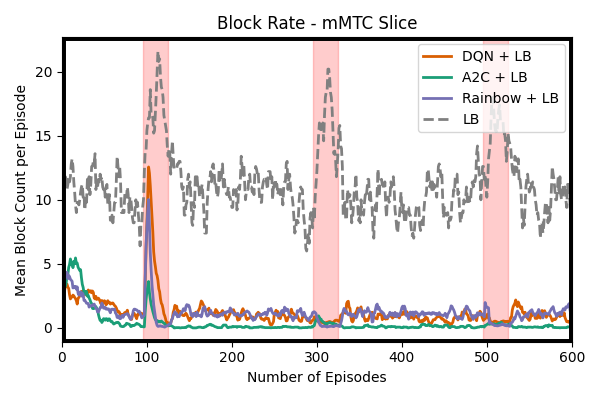
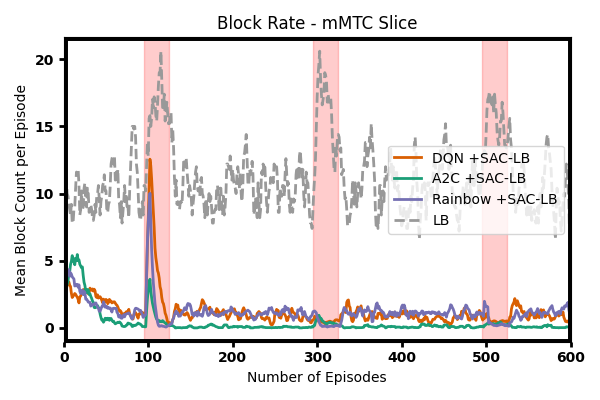
Improved plots

diff --git a/Compare.py b/Compare.py
@@ -383,10 +383,10 @@ def plot_results():
         rdqn_ratio = smooth(np.nan_to_num(mean_rdqn_min / mean_rdqn_max, nan=0.0, posinf=0.0, neginf=0.0), window=5)
         baseline_ratio = smooth(np.nan_to_num(baseline_min / baseline_max, nan=0.0, posinf=0.0, neginf=0.0), window=5)
 
-    plt.plot(dqn_ratio, label='DQN + LB', color='#d95f02', linewidth=2, linestyle='-')
-    plt.plot(a2c_ratio, label='A2C + LB', color='#1b9e77', linewidth=2, linestyle='-')
-    plt.plot(rdqn_ratio, label='Rainbow + LB', color='#7570b3', linewidth=2, linestyle='-')
-    plt.plot(baseline_ratio, label='LB', color='gray', linewidth=2, linestyle='--')
+    plt.plot(dqn_ratio, label='DQN +SAC-LB', color='#d95f02', linewidth=2, linestyle='-')
+    plt.plot(a2c_ratio, label='A2C +SAC-LB', color='#1b9e77', linewidth=2, linestyle='-')
+    plt.plot(rdqn_ratio, label='Rainbow +SAC-LB', color='#7570b3', linewidth=2, linestyle='-')
+    plt.plot(baseline_ratio, label='LB', color='#999999', linewidth=2, linestyle='--')
 
     plt.xlim(0, 600)
     plt.axvline(0, color='black', linewidth=5)
@@ -397,19 +397,25 @@ def plot_results():
     plt.title("Network Slicing Load Balance Ratio (min/max)")
     plt.xlabel("Number of Episodes")
     plt.ylabel("Min/Max Utilization Ratio")
+    plt.tick_params(axis='both', labelsize=10, width=2)
+    for label in plt.gca().get_xticklabels():
+        label.set_fontweight('bold')
+    for label in plt.gca().get_yticklabels():
+        label.set_fontweight('bold')
     # --- Mark disruption windows with shaded regions ---
     for start, duration in [(95, 30), (295, 30), (495, 30)]:
         plt.axvspan(start, start + duration, color='red', alpha=0.2, label=None)
-    plt.legend()
+    plt.legend(loc='center right')
     plt.tight_layout()
     plt.savefig('Load_Balance_Metric.png')
     plt.close()
 
 def plot_std_metric():
     plt.figure(figsize=(6, 4))
-    plt.plot(smooth(mean_dqn_std, window=5), label='DQN + LB', color='#d95f02', linewidth=2, linestyle='-')
-    plt.plot(smooth(mean_a2c_std, window=5), label='A2C + LB', color='#1b9e77', linewidth=2, linestyle='-')
-    plt.plot(smooth(mean_rdqn_std, window=5), label='Rainbow + LB', color='#7570b3', linewidth=2, linestyle='-')
+    plt.plot(smooth(mean_dqn_std, window=5), label='DQN +SAC-LB', color='#d95f02', linewidth=2, linestyle='-')
+    plt.plot(smooth(mean_a2c_std, window=5), label='A2C +SAC-LB', color='#1b9e77', linewidth=2, linestyle='-')
+    plt.plot(smooth(mean_rdqn_std, window=5), label='Rainbow +SAC-LB', color='#7570b3', linewidth=2, linestyle='-')
+    plt.plot(smooth(baseline_std, window=5), label='LB', color='#999999', linewidth=2, linestyle='--')
     plt.title("Std Dev of Slice Utilization")
     plt.xlabel("Number of Episodes")
     plt.ylabel("Std Dev (Normalized Usage)")
@@ -419,19 +425,24 @@ def plot_std_metric():
     ymin, ymax = plt.ylim()
     plt.axhline(ymin, color='black', linewidth=5)
     plt.axhline(ymax, color='black', linewidth=5)
+    plt.tick_params(axis='both', labelsize=10, width=2)
+    for label in plt.gca().get_xticklabels():
+        label.set_fontweight('bold')
+    for label in plt.gca().get_yticklabels():
+        label.set_fontweight('bold')
     for start, duration in [(95, 30), (295, 30), (495, 30)]:
         plt.axvspan(start, start + duration, color='red', alpha=0.2, label=None)
-    plt.legend()
+    plt.legend(loc='center right')
     plt.tight_layout()
     plt.savefig('Std_Utilization.png')
     plt.close()
 
 def plot_block_rate_urllc():
     plt.figure(figsize=(6, 4))
-    plt.plot(smooth(mean_dqn_urllc_blocks, window=5), label='DQN + LB', color='#d95f02', linestyle='-', linewidth=2)
-    plt.plot(smooth(mean_a2c_urllc_blocks, window=5), label='A2C + LB', color='#1b9e77', linestyle='-', linewidth=2)
-    plt.plot(smooth(mean_rdqn_urllc_blocks, window=5), label='Rainbow + LB', color='#7570b3', linestyle='-', linewidth=2)
-    plt.plot(smooth(baseline_urllc_blocks, window=5), label='LB', color='gray', linewidth=2, linestyle='--')
+    plt.plot(smooth(mean_dqn_urllc_blocks, window=5), label='DQN +SAC-LB', color='#d95f02', linestyle='-', linewidth=2)
+    plt.plot(smooth(mean_a2c_urllc_blocks, window=5), label='A2C +SAC-LB', color='#1b9e77', linestyle='-', linewidth=2)
+    plt.plot(smooth(mean_rdqn_urllc_blocks, window=5), label='Rainbow +SAC-LB', color='#7570b3', linestyle='-', linewidth=2)
+    plt.plot(smooth(baseline_urllc_blocks, window=5), label='LB', color='#999999', linewidth=2, linestyle='--')
     plt.title("Block Rate - URLLC Slice")
     plt.xlabel("Number of Episodes")
     plt.ylabel("Mean Block Count per Episode")
@@ -441,20 +452,25 @@ def plot_block_rate_urllc():
     ymin, ymax = plt.ylim()
     plt.axhline(ymin, color='black', linewidth=5)
     plt.axhline(ymax, color='black', linewidth=5)
+    plt.tick_params(axis='both', labelsize=10, width=2)
+    for label in plt.gca().get_xticklabels():
+        label.set_fontweight('bold')
+    for label in plt.gca().get_yticklabels():
+        label.set_fontweight('bold')
     # --- Mark disruption windows with shaded regions ---
     for start, duration in [(95, 30), (295, 30), (495, 30)]:
         plt.axvspan(start, start + duration, color='red', alpha=0.2, label=None)
-    plt.legend()
+    plt.legend(loc='center right')
     plt.tight_layout()
     plt.savefig('Block_Rate_URRLC.png')
     plt.close()
 
 def plot_block_rate_embb():
     plt.figure(figsize=(6, 4))
-    plt.plot(smooth(mean_dqn_embb_blocks, window=5), label='DQN + LB', color='#d95f02', linestyle='-', linewidth=2)
-    plt.plot(smooth(mean_a2c_embb_blocks, window=5), label='A2C + LB', color='#1b9e77', linestyle='-', linewidth=2)
-    plt.plot(smooth(mean_rdqn_embb_blocks, window=5), label='Rainbow + LB', color='#7570b3', linestyle='-', linewidth=2)
-    plt.plot(smooth(baseline_embb_blocks, window=5), label='LB', color='gray', linewidth=2, linestyle='--')
+    plt.plot(smooth(mean_dqn_embb_blocks, window=5), label='DQN +SAC-LB', color='#d95f02', linestyle='-', linewidth=2)
+    plt.plot(smooth(mean_a2c_embb_blocks, window=5), label='A2C +SAC-LB', color='#1b9e77', linestyle='-', linewidth=2)
+    plt.plot(smooth(mean_rdqn_embb_blocks, window=5), label='Rainbow +SAC-LB', color='#7570b3', linestyle='-', linewidth=2)
+    plt.plot(smooth(baseline_embb_blocks, window=5), label='LB', color='#999999', linewidth=2, linestyle='--')
     plt.title("Block Rate - eMBB Slice")
     plt.xlabel("Number of Episodes")
     plt.ylabel("Mean Block Count per Episode")
@@ -464,20 +480,25 @@ def plot_block_rate_embb():
     ymin, ymax = plt.ylim()
     plt.axhline(ymin, color='black', linewidth=5)
     plt.axhline(ymax, color='black', linewidth=5)
+    plt.tick_params(axis='both', labelsize=10, width=2)
+    for label in plt.gca().get_xticklabels():
+        label.set_fontweight('bold')
+    for label in plt.gca().get_yticklabels():
+        label.set_fontweight('bold')
     # --- Mark disruption windows with shaded regions ---
     for start, duration in [(95, 30), (295, 30), (495, 30)]:
         plt.axvspan(start, start + duration, color='red', alpha=0.2, label=None)
-    plt.legend(loc='upper right')
+    plt.legend(loc='center right')
     plt.tight_layout()
     plt.savefig('Block_Rate_eMBB.png')
     plt.close()
 
 def plot_block_rate_mmtc():
     plt.figure(figsize=(6, 4))
-    plt.plot(smooth(mean_dqn_mmtc_blocks, window=5), label='DQN + LB', color='#d95f02', linestyle='-', linewidth=2)
-    plt.plot(smooth(mean_a2c_mmtc_blocks, window=5), label='A2C + LB', color='#1b9e77', linestyle='-', linewidth=2)
-    plt.plot(smooth(mean_rdqn_mmtc_blocks, window=5), label='Rainbow + LB', color='#7570b3', linestyle='-', linewidth=2)
-    plt.plot(smooth(baseline_mmtc_blocks, window=5), label='LB', color='gray', linewidth=2, linestyle='--')
+    plt.plot(smooth(mean_dqn_mmtc_blocks, window=5), label='DQN +SAC-LB', color='#d95f02', linestyle='-', linewidth=2)
+    plt.plot(smooth(mean_a2c_mmtc_blocks, window=5), label='A2C +SAC-LB', color='#1b9e77', linestyle='-', linewidth=2)
+    plt.plot(smooth(mean_rdqn_mmtc_blocks, window=5), label='Rainbow +SAC-LB', color='#7570b3', linestyle='-', linewidth=2)
+    plt.plot(smooth(baseline_mmtc_blocks, window=5), label='LB', color='#999999', linewidth=2, linestyle='--')
     plt.title("Block Rate - mMTC Slice")
     plt.xlabel("Number of Episodes")
     plt.ylabel("Mean Block Count per Episode")
@@ -487,20 +508,25 @@ def plot_block_rate_mmtc():
     ymin, ymax = plt.ylim()
     plt.axhline(ymin, color='black', linewidth=5)
     plt.axhline(ymax, color='black', linewidth=5)
+    plt.tick_params(axis='both', labelsize=10, width=2)
+    for label in plt.gca().get_xticklabels():
+        label.set_fontweight('bold')
+    for label in plt.gca().get_yticklabels():
+        label.set_fontweight('bold')
     # --- Mark disruption windows with shaded regions ---
     for start, duration in [(95, 30), (295, 30), (495, 30)]:
         plt.axvspan(start, start + duration, color='red', alpha=0.2, label=None)
-    plt.legend()
+    plt.legend(loc='center right')
     plt.tight_layout()
     plt.savefig('Block_Rate_mMTC.png')
     plt.close()
 
 def plot_sla_satisfaction_urllc():
     plt.figure(figsize=(6, 4))
-    plt.plot(smooth(mean_dqn_urllc_sla, window=5), label='DQN + LB', color='#d95f02', linewidth=2, linestyle='-')
-    plt.plot(smooth(mean_a2c_urllc_sla, window=5), label='A2C + LB', color='#1b9e77', linewidth=2, linestyle='-')
-    plt.plot(smooth(mean_rdqn_urllc_sla, window=5), label='Rainbow + LB', color='#7570b3', linewidth=2, linestyle='-')
-    plt.plot(smooth(baseline_urllc_sla, window=5), label='LB', color='gray', linewidth=2, linestyle='--')
+    plt.plot(smooth(mean_dqn_urllc_sla, window=5), label='DQN +SAC-LB', color='#d95f02', linewidth=2, linestyle='-')
+    plt.plot(smooth(mean_a2c_urllc_sla, window=5), label='A2C +SAC-LB', color='#1b9e77', linewidth=2, linestyle='-')
+    plt.plot(smooth(mean_rdqn_urllc_sla, window=5), label='Rainbow +SAC-LB', color='#7570b3', linewidth=2, linestyle='-')
+    plt.plot(smooth(baseline_urllc_sla, window=5), label='LB', color='#999999', linewidth=2, linestyle='--')
     plt.title("SLA Satisfaction - URLLC")
     plt.xlabel("Number of Episodes")
     plt.ylabel("SLA Satisfaction Ratio")
@@ -510,19 +536,25 @@ def plot_sla_satisfaction_urllc():
     ymin, ymax = plt.ylim()
     plt.axhline(ymin, color='black', linewidth=5)
     plt.axhline(ymax, color='black', linewidth=5)
+    plt.tick_params(axis='both', labelsize=10, width=2)
+    for label in plt.gca().get_xticklabels():
+        label.set_fontweight('bold')
+    for label in plt.gca().get_yticklabels():
+        label.set_fontweight('bold')
+    # --- Mark disruption windows with shaded regions ---
     for start, duration in [(95, 30), (295, 30), (495, 30)]:
         plt.axvspan(start, start + duration, color='red', alpha=0.2, label=None)
-    plt.legend(loc='lower left', fontsize=8)
+    plt.legend(loc='center right', fontsize=8)
     plt.tight_layout()
     plt.savefig('SLA_Satisfaction_URLLC.png')
     plt.close()
 
 def plot_sla_satisfaction_embb():
     plt.figure(figsize=(6, 4))
-    plt.plot(smooth(mean_dqn_embb_sla, window=5), label='DQN + LB', color='#d95f02', linewidth=2, linestyle='-')
-    plt.plot(smooth(mean_a2c_embb_sla, window=5), label='A2C + LB', color='#1b9e77', linewidth=2, linestyle='-')
-    plt.plot(smooth(mean_rdqn_embb_sla, window=5), label='Rainbow + LB', color='#7570b3', linewidth=2, linestyle='-')
-    plt.plot(smooth(baseline_embb_sla, window=5), label='LB', color='gray', linewidth=2, linestyle='--')
+    plt.plot(smooth(mean_dqn_embb_sla, window=5), label='DQN +SAC-LB', color='#d95f02', linewidth=2, linestyle='-')
+    plt.plot(smooth(mean_a2c_embb_sla, window=5), label='A2C +SAC-LB', color='#1b9e77', linewidth=2, linestyle='-')
+    plt.plot(smooth(mean_rdqn_embb_sla, window=5), label='Rainbow +SAC-LB', color='#7570b3', linewidth=2, linestyle='-')
+    plt.plot(smooth(baseline_embb_sla, window=5), label='LB', color='#999999', linewidth=2, linestyle='--')
     plt.title("SLA Satisfaction - eMBB")
     plt.xlabel("Number of Episodes")
     plt.ylabel("SLA Satisfaction Ratio")
@@ -532,19 +564,25 @@ def plot_sla_satisfaction_embb():
     ymin, ymax = plt.ylim()
     plt.axhline(ymin, color='black', linewidth=5)
     plt.axhline(ymax, color='black', linewidth=5)
+    plt.tick_params(axis='both', labelsize=10, width=2)
+    for label in plt.gca().get_xticklabels():
+        label.set_fontweight('bold')
+    for label in plt.gca().get_yticklabels():
+        label.set_fontweight('bold')
+    # --- Mark disruption windows with shaded regions ---
     for start, duration in [(95, 30), (295, 30), (495, 30)]:
         plt.axvspan(start, start + duration, color='red', alpha=0.2, label=None)
-    plt.legend(loc='lower left', fontsize=8)
+    plt.legend(loc='center right', fontsize=8)
     plt.tight_layout()
     plt.savefig('SLA_Satisfaction_eMBB.png')
     plt.close()
 
 def plot_sla_satisfaction_mmtc():
     plt.figure(figsize=(6, 4))
-    plt.plot(smooth(mean_dqn_mmtc_sla, window=5), label='DQN + LB', color='#d95f02', linewidth=2, linestyle='-')
-    plt.plot(smooth(mean_a2c_mmtc_sla, window=5), label='A2C + LB', color='#1b9e77', linewidth=2, linestyle='-')
-    plt.plot(smooth(mean_rdqn_mmtc_sla, window=5), label='Rainbow + LB', color='#7570b3', linewidth=2, linestyle='-')
-    plt.plot(smooth(baseline_mmtc_sla, window=5), label='LB', color='gray', linewidth=2, linestyle='--')
+    plt.plot(smooth(mean_dqn_mmtc_sla, window=5), label='DQN +SAC-LB', color='#d95f02', linewidth=2, linestyle='-')
+    plt.plot(smooth(mean_a2c_mmtc_sla, window=5), label='A2C +SAC-LB', color='#1b9e77', linewidth=2, linestyle='-')
+    plt.plot(smooth(mean_rdqn_mmtc_sla, window=5), label='Rainbow +SAC-LB', color='#7570b3', linewidth=2, linestyle='-')
+    plt.plot(smooth(baseline_mmtc_sla, window=5), label='LB', color='#999999', linewidth=2, linestyle='--')
     plt.title("SLA Satisfaction - mMTC")
     plt.xlabel("Number of Episodes")
     plt.ylabel("SLA Satisfaction Ratio")
@@ -554,9 +592,15 @@ def plot_sla_satisfaction_mmtc():
     ymin, ymax = plt.ylim()
     plt.axhline(ymin, color='black', linewidth=5)
     plt.axhline(ymax, color='black', linewidth=5)
+    plt.tick_params(axis='both', labelsize=10, width=2)
+    for label in plt.gca().get_xticklabels():
+        label.set_fontweight('bold')
+    for label in plt.gca().get_yticklabels():
+        label.set_fontweight('bold')
+    # --- Mark disruption windows with shaded regions ---
     for start, duration in [(95, 30), (295, 30), (495, 30)]:
         plt.axvspan(start, start + duration, color='red', alpha=0.2, label=None)
-    plt.legend(loc='lower left', fontsize=8)
+    plt.legend(loc='center right', fontsize=8)
     plt.tight_layout()
     plt.savefig('SLA_Satisfaction_mMTC.png')
     plt.close()
